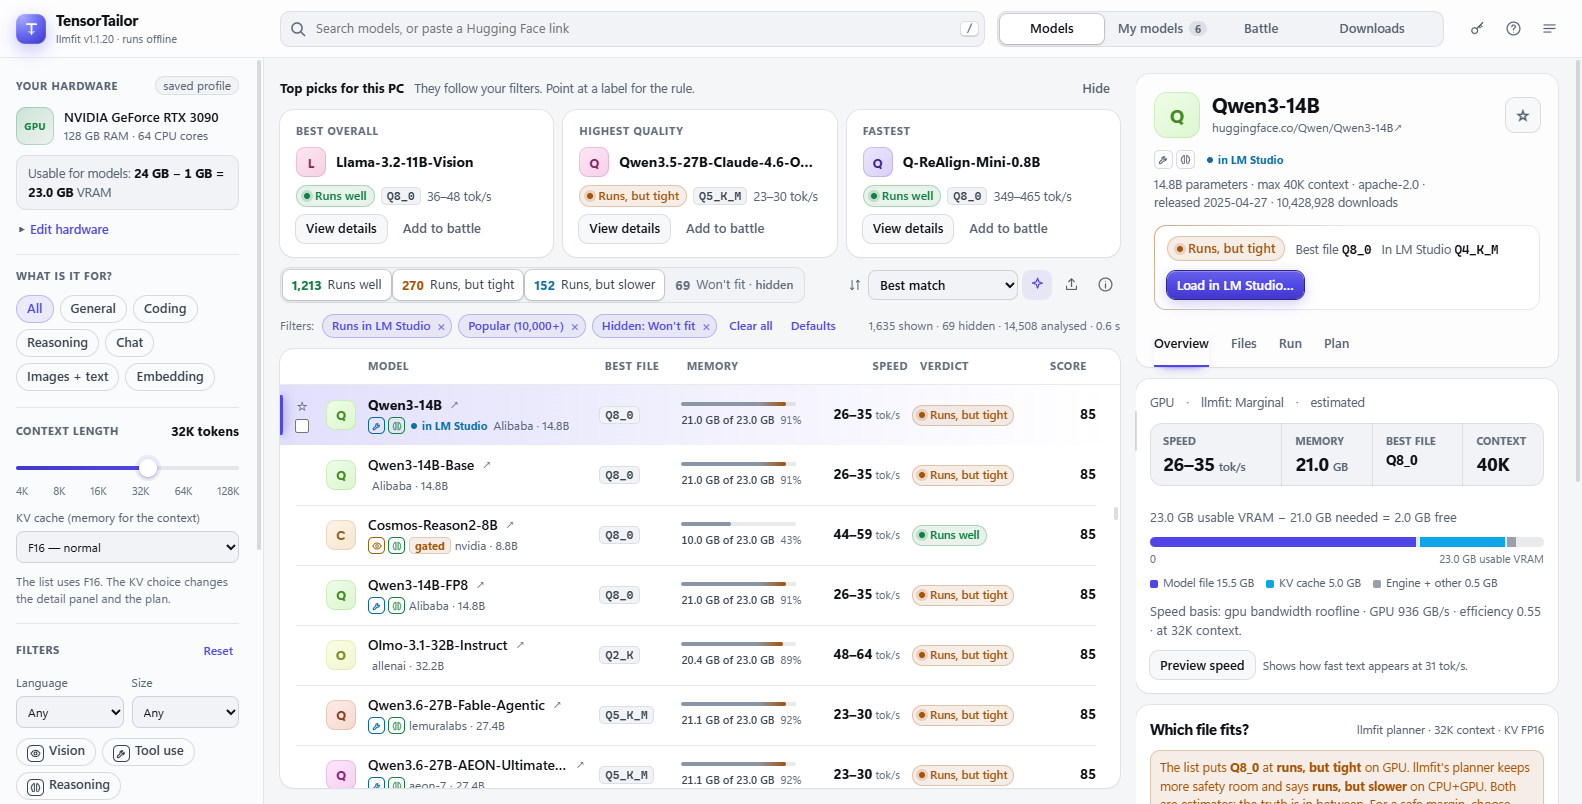
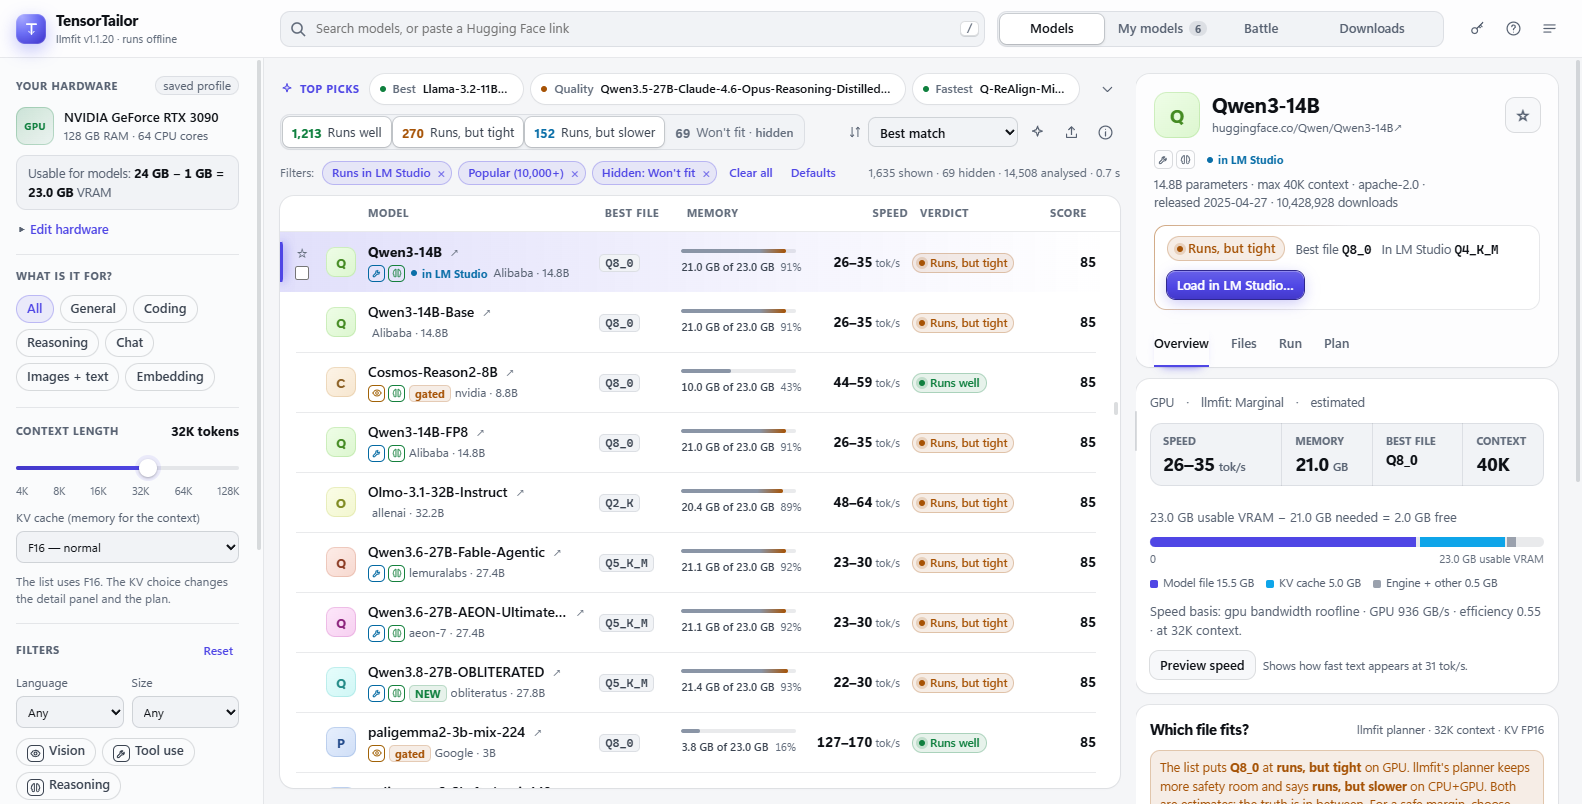
Implemented by Claude Opus 5.5: feat(web): seven small fixes, Top picks closed by default, an empty state for My models
F6 and GUI review G10, G12:
- My models: "Models 7" now says "+ 1 embedding model" (the header counts 8); the Measure
  button sits on its own line under the speed; a row made from LM Studio's data says so
  instead of "llmfit: lmstudio/<key>";
- rows made from LM Studio's data without a repo show LM Studio's own name in the list,
  detail panel, Battle and the selection (not the lowercase key);
- Plan: no "+0.0 GB VRAM" upgrade line (it meant: already there); free disk space that is
  not known says how to get it (Import...) instead of "? (import to see)";
- the facts line leaves out a license that is "unknown";
- a search without results shows no empty Top picks cards;
- Top picks start closed (one slim strip), so a new visitor sees about 9 model rows
  instead of 6 at 1600x900; the choice is remembered;
- My models with LM Studio off: numbered steps and one big "Try again" button.
New test test-small-fixes (23 tests), Help updated, README pictures retaken (picks closed).

diff --git a/web/app.html b/web/app.html
@@ -973,6 +973,10 @@ details.by-hand .hint { margin-top: 6px; }
 .view-pane { container: view / inline-size; }
 .mtable .d-id { overflow-wrap: normal; word-break: normal; }
 .mine-card { overflow-x: auto; }
+/* Numbered steps in an empty state (My models without LM Studio). */
+.es-steps { text-align: left; margin: 0 auto 18px; padding-left: 22px; max-width: 400px; font-size: 13.5px; line-height: 1.8; color: var(--text-2); }
+/* The Measure button on its own line under the speed (it touched "32–43 tok/s"). */
+.mtable [data-measure] { display: block; margin: 6px 0 0 auto; }
 @container view (max-width: 1150px) { .mine-card .mtable th:nth-child(2), .mine-card .mtable td:nth-child(2) { display: none; } }
 </style>
 </head>
@@ -1205,7 +1209,7 @@ details.by-hand .hint { margin-top: 6px; }
     </dl>
     <h3>Above the list</h3>
     <dl>
-      <dt>Top picks for this PC</dt><dd>Three suggestions that follow your filters: <b>Best overall</b>, <b>Highest quality</b> and <b>Fastest</b>, each with its verdict, file and speed. <b>View details</b> opens the model; <b>Add to battle</b> puts it in Battle. Closed, they are one slim strip with the three names (click a name to open it); the arrow at its right, or the sparkle button next to Sort, shows them as cards; <b>Hide</b> folds the cards back into the strip.</dd>
+      <dt>Top picks for this PC</dt><dd>Three suggestions that follow your filters: <b>Best overall</b>, <b>Highest quality</b> and <b>Fastest</b>, each with its verdict, file and speed. <b>View details</b> opens the model; <b>Add to battle</b> puts it in Battle. Closed (the start), they are one slim strip with the three names (click a name to open it); the arrow at its right, or the sparkle button next to Sort, shows them as cards; <b>Hide</b> folds the cards back into the strip.</dd>
       <dt>The four tiles</dt><dd>The segments at the left of the toolbar count each verdict. Click one to show or hide those models; a hidden one is grey and says "hidden".</dd>
       <dt>Count line</dt><dd>At the right of the filter chips: how many models are shown, how many the tiles hide, how many llmfit analysed, and how long that took.</dd>
       <dt>Filter chips</dt><dd>Every active filter is a chip: click its × to remove it. <b>Clear all</b> shows every analysed model; <b>Defaults</b> gives the start values.</dd>
@@ -1592,8 +1596,10 @@ function modelView(name, row, F) {
   const c = state.byName.get(name) || { name };
   const meta = state.meta.get(name) || { downloads: 0, likes: 0, langs: [] };
   const params = c.parameters_raw ? c.parameters_raw / 1e9 : parseFloat(c.parameter_count) * (/M$/i.test(c.parameter_count || "") ? 0.001 : 1) || 0;
+  // A row made from LM Studio's data without a repo ("lmstudio/<key>") shows LM Studio's own name, as in My models.
+  const lmsX = /^lmstudio\//i.test(name) && state.live.meta[name] && state.live.meta[name].src === "lms" ? state.lms.models.find((x) => state.lmsLinks[x.id] === name) : null;
   m = {
-    id: name, name: shortName(name), provider: c.provider || name.split("/")[0], params,
+    id: name, name: lmsX && lmsX.name ? lmsX.name : shortName(name), provider: c.provider || name.split("/")[0], params,
     active: c.active_parameters ? c.active_parameters / 1e9 : null, moe: !!c.is_moe,
     ctx: c.context_length || 0, uses: [ucKey(row[F.use_case])], license: c.license || "unknown",
     gated: GATED_LICENSES.test(c.license || ""), langs: meta.langs, caps: capsOf(c),
@@ -1928,6 +1934,8 @@ function renderSuggest() {
   const bestOverall = ok.filter((r) => r.best.lo >= 12).sort((a, b) => b.best.score - a.best.score)[0];
   const smartest = ok.filter((r) => r.best.lo >= READING_PACE).sort((a, b) => b.best.parts.quality - a.best.parts.quality || b.best.score - a.best.score)[0];
   const fastest = ok.filter((r) => r.best.parts.quality >= 60).sort((a, b) => b.best.tps - a.best.tps)[0];
+  // Nothing to suggest (for example a search without results): no empty cards above the empty list.
+  if (!bestOverall && !smartest && !fastest) { el.hidden = true; return; }
   // Closed: one slim strip with the three names (click one to open it). Open: three cards.
   if (!state.picksOpen) {
     const pill = (k, r, why) => r ? `<button class="pk" data-show="${esc(r.m.id)}" title="${esc(k + ": " + r.m.id + " · " + PLAIN[r.best.plain].label + " · " + speedRange(r.best) + " tok/s\n" + why)}"><span class="d ${PLAIN[r.best.plain].cls}"></span><span class="k">${k}</span><b>${esc(r.m.name)}</b></button>` : "";
@@ -2488,7 +2496,7 @@ function tabPlan(r, d) {
     ${!d || d.loading ? '<div class="loading">Asking the engine…</div>' : !plan ? `<div class="warn-box">${esc(d.planErr || "No plan for this model.")}</div>` : `
       <div class="stats plan-need"><div class="stat"><div class="k">Minimum</div>${hwTile(plan.minimum)}</div><div class="stat"><div class="k">Recommended</div>${hwTile(plan.recommended)}</div></div>
       <table class="ptable" style="margin-top:10px"><thead><tr><th>Route</th><th>Possible here</th><th class="r">tok/s</th></tr></thead><tbody>${(plan.run_paths || []).map((p) => `<tr><td>${esc(ROUTE_NAME[p.path] || String(p.path).replace(/_/g, " "))}</td><td>${p.feasible ? (p.fit_level ? verdict(plainOf(LEVEL[p.fit_level] || "tight", p.path === "gpu" ? "GPU" : p.path === "cpu_only" ? "CPU" : "CPU+GPU")) : "yes") : '<span class="tag">no</span>'}</td><td class="r">${p.estimated_tps ? fmtT(p.estimated_tps) : "—"}</td></tr>`).join("")}</tbody></table>
-      ${(plan.upgrade_deltas || []).length ? `<div class="upg-h">What would make it better?</div><ul class="upg-list">${plan.upgrade_deltas.map((u) => `<li>${upgText(u.description)}</li>`).join("")}</ul>` : `<div class="ok-box">No upgrade needed for this model.</div>`}`}
+      ${(() => { const ups = (plan.upgrade_deltas || []).filter((u) => !(u.add_gb != null && u.add_gb < 0.05) && !(u.add_cores != null && u.add_cores <= 0)); return ups.length ? `<div class="upg-h">What would make it better?</div><ul class="upg-list">${ups.map((u) => `<li>${upgText(u.description)}</li>`).join("")}</ul>` : `<div class="ok-box">No upgrade needed for this model.</div>`; })()}`}
   </section>
   <section class="card"><div class="card-head"><h2>Can it reach my speed?</h2><span class="ctx-value">${state.plan.target} tok/s</span></div>
     <input type="range" id="planTarget" min="5" max="150" step="5" value="${state.plan.target}" aria-label="Target speed">
@@ -2501,7 +2509,7 @@ function tabPlan(r, d) {
   </section>
   <section class="card"><div class="card-head"><h2>Disk space for my best models</h2><span class="ctx-value">keep ${keep}</span></div>
     <input type="range" id="planKeep" min="1" max="10" step="1" value="${keep}" aria-label="Number of models to keep">
-    <div class="grid-2" style="margin-top:8px"><div><div class="big-num">${gb(disk)}</div><small>needed (files + 10% + 20 GB for downloads, rough)</small></div><div><div class="big-num">${state.hw.freeDisk != null ? gb(state.hw.freeDisk) : "?"}</div><small>free on D: ${state.hw.freeDisk == null ? "(import to see)" : ""}</small></div></div>
+    <div class="grid-2" style="margin-top:8px"><div><div class="big-num">${gb(disk)}</div><small>needed (files + 10% + 20 GB for downloads, rough)</small></div><div><div class="big-num">${state.hw.freeDisk != null ? gb(state.hw.freeDisk) : "—"}</div><small>${state.hw.freeDisk != null ? "free on D:" : "free on D: not known. <b>Import…</b> (Your hardware) reads it from your PC."}</small></div></div>
     <p class="hint">The ${keep} best with the current filters: ${top.map((x) => esc(x.m.name) + " " + esc(x.best.q)).join(", ")}.</p>
   </section>`;
 }
@@ -2519,7 +2527,7 @@ function renderDetail() {
   const body = { overview: () => tabOverview(r, d), files: () => tabFiles(r), run: () => tabRun(r), plan: () => tabPlan(r, d) }[state.tab]();
   // The answer first (verdict, file, one action); model facts as one quiet line; the header stays in view.
   const fav = state.watch.has(m.id), b = r.best;
-  const meta = [`${fmtParams(m.params)} parameters`, m.moe ? `MoE${m.active ? " · " + fmtParams(m.active) + " active" : ""}` : "", `max ${fmtCtx(m.ctx)} context`, m.license ? m.license + (gatedOf(m.id) ? " (gated)" : gatedOf(m.id) === false && m.gated ? " (not gated)" : "") : gatedOf(m.id) ? "gated" : "", m.added ? `released ${m.added}` : "", m.downloads ? `${m.downloads.toLocaleString("en")} downloads` : ""].filter(Boolean);
+  const meta = [`${fmtParams(m.params)} parameters`, m.moe ? `MoE${m.active ? " · " + fmtParams(m.active) + " active" : ""}` : "", `max ${fmtCtx(m.ctx)} context`, m.license && m.license !== "unknown" ? m.license +(gatedOf(m.id) ? " (gated)" : gatedOf(m.id) === false && m.gated ? " (not gated)" : "") : gatedOf(m.id) ? "gated" : "", m.added ? `released ${m.added}` : "", m.downloads ? `${m.downloads.toLocaleString("en")} downloads` : ""].filter(Boolean);
   const lmsQ = lms && lms.quantization ? lms.quantization.toUpperCase() : "";
   const action = lms && state.lms.online && !/embed/i.test(lms.type) && b.plain !== "nofit"
     ? `<button class="btn primary small" data-headload="${esc(m.id)}" title="Opens the Run tab and shows what will be sent to LM Studio first">Load in LM Studio…</button>`
@@ -3582,14 +3590,14 @@ const KPI_ICON = {
   measured: '<svg viewBox="0 0 24 24"><path d="M13 2 4 14h7l-1 8 9-12h-7z"/></svg>'
 };
 function mineKpis(totalGB) {
-  const s = state.lms, lg = state.localGguf, nModels = s.models.filter((x) => !/embed/i.test(x.type)).length;
+  const s = state.lms, lg = state.localGguf, nModels = s.models.filter((x) => !/embed/i.test(x.type)).length, nEmb = s.models.length - nModels;
   const files = lg.done ? updFiles() : [], codes = files.map((f) => updStatus(f).code);
   const nUpd = codes.filter((c) => c === "update").length, nChecked = codes.filter((c) => c !== "unknown").length;
   const gs = grpState.done ? simGroups() : [], gTotal = gs.reduce((t, g) => t + g.total, 0), gFree = gs.reduce((t, g) => t + g.free, 0);
   const nMeas = Object.keys(measStore).length, pf = pcFactor();
   const card = (key, c, label, value, unit, note) => `<div class="card kpi" style="--c:${c}"><span class="kpi-l">${label}</span><span class="kpi-ic" aria-hidden="true">${KPI_ICON[key]}</span><b class="num">${value}${unit ? `<small>${unit}</small>` : ""}</b><p>${note}</p></div>`;
   return `<div class="kpis">${[
-    card("models", "var(--accent)", "Models", nModels, "", lg.done ? `${lg.byId.size} of ${s.models.length} files read from <b>${esc(lg.folder)}</b>` : "Model files not read yet"),
+    card("models", "var(--accent)", "Models", nModels, "", (nEmb ? `+ ${nEmb} embedding model${nEmb === 1 ? "" : "s"} · ` : "") + (lg.done ?`${lg.byId.size} of ${s.models.length} files read from <b>${esc(lg.folder)}</b>` : "Model files not read yet")),
     card("disk", "var(--good)", "On disk", totalGB.toFixed(totalGB >= 100 ? 0 : 1), "GB", `${s.models.length} models in LM Studio`),
     card("updates", nUpd ? "var(--marginal)" : "var(--perfect)", "Updates", lg.done && files.length ? nUpd : "—", "", !lg.done || !files.length ? "Read your models folder to check" : updState.busy ? "Checking on Hugging Face…" : `${nUpd ? `<b>${nUpd} available</b>` : "<b>All up to date</b>"} · ${nChecked} of ${files.length} files checked`),
     card("similar", "var(--marginal)", "Similar", gs.length ? gTotal.toFixed(1) : "0", gs.length ? "GB" : "", gs.length ? `${gs.length} group${gs.length === 1 ? "" : "s"} · up to <b>${gb(gFree)}</b> to free` : grpState.busy ? "Looking up base models…" : "No two models share a base model"),
@@ -3601,8 +3609,12 @@ function viewMine() {
   if (s.online && state.dl.root && !state.localGguf.done && !state.localGguf.busy && !state.localGguf.needClick && !state.localGguf.error) setTimeout(() => scanLocalGguf(false), 0);
   // Without the folder's file paths, the groups start from the matched models of llmfit's list.
   else if (s.online && state.ready && !grpState.done && !grpState.busy && !state.localGguf.busy) setTimeout(() => findGroups(false), 0);
-  if (!s.online) return `<div class="view-head"><h1>My models</h1><span class="status-line"><span class="dot warn"></span>${s.checked ? "LM Studio's server is not reachable at 127.0.0.1:1234." : "Looking for LM Studio…"}</span><span class="spacer"></span><button class="btn small" id="btnLmsRefresh">Refresh</button></div>
-    <section class="card"><p class="hint" style="margin-top:0">Start LM Studio, open the <b>Developer</b> tab, switch the server <b>on</b>, and press <b>Refresh</b>. TensorTailor then lists your models, their size and how well they run here.</p></section>`;
+  // LM Studio off: a real empty state with numbered steps and one big button (it was one line and an empty page).
+  if (!s.online) return `<div class="view-head"><h1>My models</h1><span class="status-line"><span class="dot warn"></span>${s.checked ? "LM Studio's server is not reachable at 127.0.0.1:1234." : "Looking for LM Studio…"}</span></div>
+    <section class="card">${s.checked ? emptyState(ES_ICON.plug, "Connect LM Studio", "TensorTailor reads your models from LM Studio's server on this PC (127.0.0.1:1234). Nothing leaves your PC.",
+      `<button class="btn primary" id="btnLmsRefresh">Try again</button>`,
+      `<ol class="es-steps"><li>Start <b>LM Studio</b>.</li><li>Open the <b>Developer</b> tab.</li><li>Switch the server <b>on</b> (Status: Running).</li><li>Press <b>Try again</b>. Still nothing? Switch on <b>Enable CORS</b> in the server settings.</li></ol>`)
+      : `<div class="loading">Looking for LM Studio…</div>`}</section>`;
   const totalGB = s.models.reduce((t, x) => t + (x.sizeGB || 0), 0);
   const rows = s.models.map((x) => {
     const isEmb = /embed/i.test(x.type);
@@ -3634,14 +3646,14 @@ function viewMine() {
       <td class="r">${esc(x.paramsStr || (x.params ? fmtParams(x.params) : "—"))}</td>
       <td><span class="quant">${esc(x.quantization || "—")}</span></td><td class="r">${x.sizeGB ? gb(x.sizeGB) : "—"}</td>
       <td><span class="tag ${x.loaded ? "okay" : ""}">${x.loaded ? "loaded" + (x.loadedCtx ? " · " + fmtCtx(x.loadedCtx) : "") : "not loaded"}</span>${x.mtp !== null ? ` <span class="tag ${x.mtp ? "okay" : ""}" title="${esc(MTP_WHAT + (x.mtp ? "\nLM Studio uses it for this model now." : "\nLM Studio does not use it now: in the model's load settings, turn on speculative decoding with MTP (only works if the model file has MTP layers)."))}">MTP ${x.mtp ? "on" : "off"}</span>` : fileMtp ? ` <span class="tag okay" title="${esc(MTP_WHAT + "\n" + mtpWhy + "\nIn LM Studio's load settings, turn on speculative decoding with MTP (or use Load in LM Studio in the Run tab).")}">MTP in file</span>` : fileMtp === null && x.mtpName ? ` <span class="tag" title="${esc(MTP_WHAT + "\nThe name says MTP. Load the model, or read your model files (above the list), to know for sure.")}">MTP (name)</span>` : ""}${warn}</td>
-      <td>${isEmb ? '<span class="tag">embedding model</span>' : plain ? verdict(plain) + `<div class="hash">${cat ? "llmfit: " + esc(cat.m.id) : "from your file (rough)"}</div>` : "—"}</td>
+      <td>${isEmb ? '<span class="tag">embedding model</span>' : plain ? verdict(plain) + `<div class="hash">${cat ? (lmsOnly(cat.m.id) ? "made from LM Studio's data" : "llmfit: " + esc(cat.m.id)) : "from your file (rough)"}</div>` : "—"}</td>
       <td class="r"${rangeTip ? ` title="${esc(rangeTip)}"` : ""}>${isEmb ? "—" : range + (range !== "—" ? " tok/s" : "") + measCell(x)}</td><td style="font-size:12.5px;color:var(--muted);max-width:220px"${best.tip ? ` title="${esc(best.tip)}"` : ""}>${esc(tipText)}</td>
       <td class="r" style="white-space:nowrap">${cat ? `<button class="btn small" data-show="${esc(cat.m.id)}">Show</button>` : ""}</td></tr>`;
   }).join("");
   return `<div class="view-head"><h1>My models</h1><span class="status-line"><span class="dot ok"></span>Connected to LM Studio at 127.0.0.1:1234 · ${s.models.length} models · ${gb(totalGB)} on disk</span><span class="spacer"></span><button class="btn small" id="btnLmsRefresh">Refresh</button></div>
     ${mineKpis(totalGB)}
     <section class="card mine-card"><div class="mine-status">${localGgufLine()}${updSummaryLine()}${measSummaryLine()}${lmsLinkLine()}${kvFillLine()}</div><table class="mtable"><thead><tr><th>Model in LM Studio</th><th title="Architecture (model design), as LM Studio reports it">Arch</th><th class="r" title="Number of parameters, as LM Studio reports it">Params</th><th>Quant</th><th class="r">On disk</th><th>State</th><th>Verdict here</th><th class="r">Speed</th><th>Best setting</th><th></th></tr></thead><tbody>${rows}</tbody></table>
-      <p class="hint">"llmfit: …" = matched to a model in llmfit's list (the match is by name; check it). "from your file (rough)" = not matched, so the verdict comes from the file size LM Studio reports. "Best setting" for a matched model comes from llmfit's planner, the same advice as the LM Studio card in the Run tab (with your quant, capped at LM Studio's maximum context).</p></section>${simGroupsCard(totalGB)}`;
+      <p class="hint">"llmfit: …" = matched to a model in llmfit's list (the match is by name; check it). "made from LM Studio's data" = a row TensorTailor made from LM Studio and the file header. "from your file (rough)" = not matched, so the verdict comes from the file size LM Studio reports. "Best setting" for a matched model comes from llmfit's planner, the same advice as the LM Studio card in the Run tab (with your quant, capped at LM Studio's maximum context).</p></section>${simGroupsCard(totalGB)}`;
 }
 
 /* ===================== Battle ===================== */
@@ -3656,12 +3668,13 @@ function battlePoints(r) {
 const ROUND_COL = { quality: "var(--accent)", speed: "var(--good)", memory: "var(--marginal)", context: "var(--perfect)" };
 const ORDINAL = ["1st", "2nd", "3rd", "4th"];
 // A friendly empty state: an icon tile, a title, a sentence and actions.
-function emptyState(icon, title, text, actions) {
-  return `<div class="empty-state"><span class="es-art" aria-hidden="true">${icon}</span><h2>${title}</h2><p>${text}</p>${actions ? `<div class="es-acts">${actions}</div>` : ""}</div>`;
+function emptyState(icon, title, text, actions, extra) {
+  return `<div class="empty-state"><span class="es-art" aria-hidden="true">${icon}</span><h2>${title}</h2><p>${text}</p>${extra || ""}${actions ? `<div class="es-acts">${actions}</div>` : ""}</div>`;
 }
 const ES_ICON = {
   battle: '<svg viewBox="0 0 24 24"><path d="M14.5 17.5 3 6V3h3l11.5 11.5M13 19l6-6M16 16l4 4M19 21l2-2M9.5 17.5 21 6V3h-3L6.5 14.5M11 19l-6-6M8 16l-4 4M5 21l-2-2"/></svg>',
   search: '<svg viewBox="0 0 24 24"><circle cx="11" cy="11" r="7"/><path d="m20 20-3.5-3.5"/></svg>',
+  plug: '<svg viewBox="0 0 24 24"><path d="M9 2v6M15 2v6M6 8h12v3a6 6 0 0 1-12 0zM12 17v5"/></svg>',
   down: '<svg viewBox="0 0 24 24"><path d="M12 4v11m-5-5 5 5 5-5M5 20h14"/></svg>'
 };
 function viewBattle() {
@@ -4437,7 +4450,8 @@ function wire() {
   try { const l = JSON.parse(safeGet("localStorage", "tt-lms-links") || "{}"); if (l && typeof l === "object" && !Array.isArray(l)) state.lmsLinks = l; } catch (e) { /* ignore */ }
   loadPrefs();
   // Top picks: open on a first visit, then as the user left them.
-  state.picksOpen = safeGet("localStorage", "tt-picks") !== "0";
+  // Closed by default (one slim strip), so a new visitor sees more model rows; the choice is remembered.
+  state.picksOpen = safeGet("localStorage", "tt-picks") === "1";
   $("btnSuggest").setAttribute("aria-pressed", String(state.picksOpen));
   try { const h = JSON.parse(safeGet("localStorage", "tt-hw") || "null"); if (h && typeof h === "object") state.hw = Object.assign({}, DEFAULT_HW, h); } catch (e) { /* ignore */ }
   // First visit (no saved hardware yet): show the hardware fields open.
